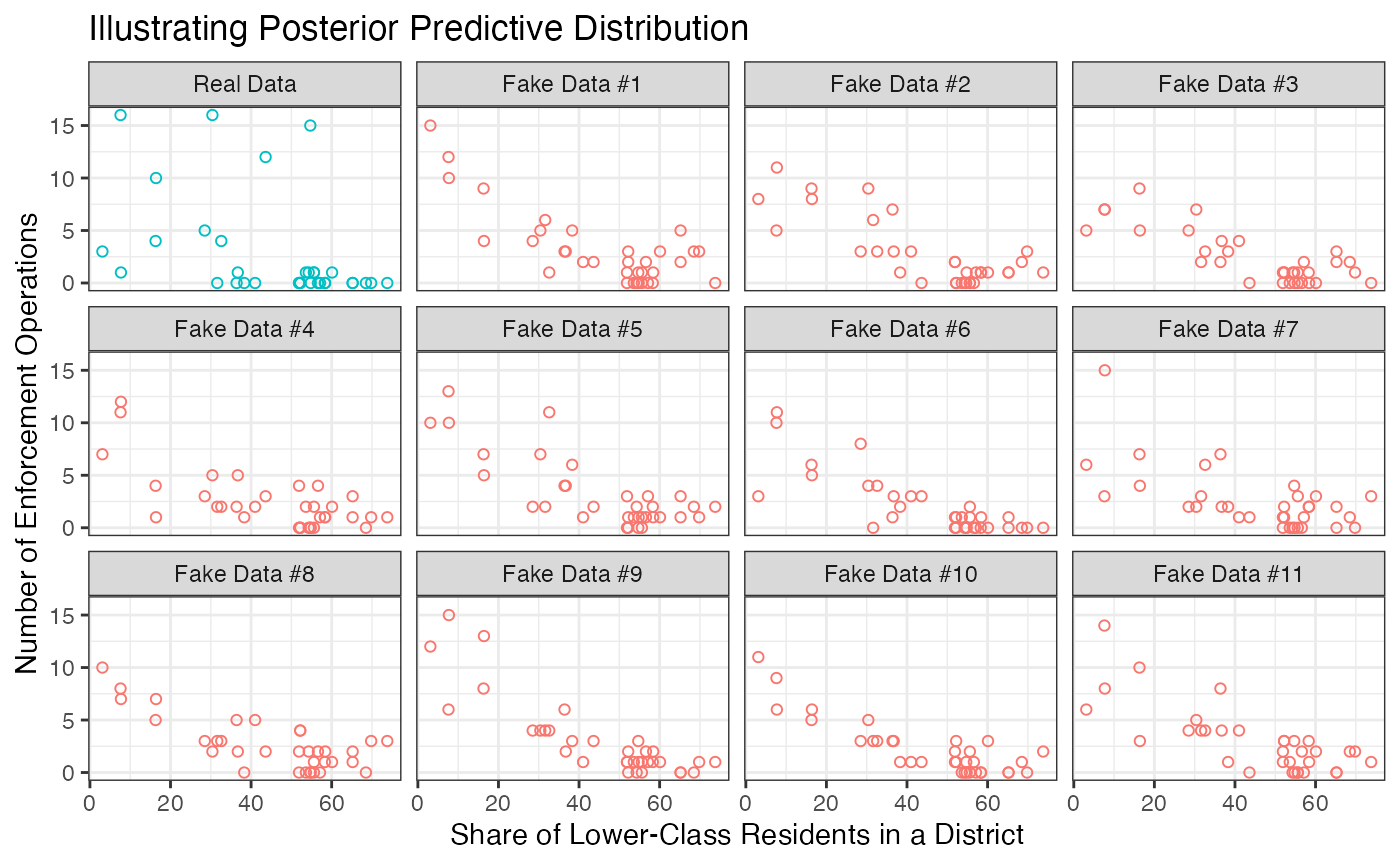
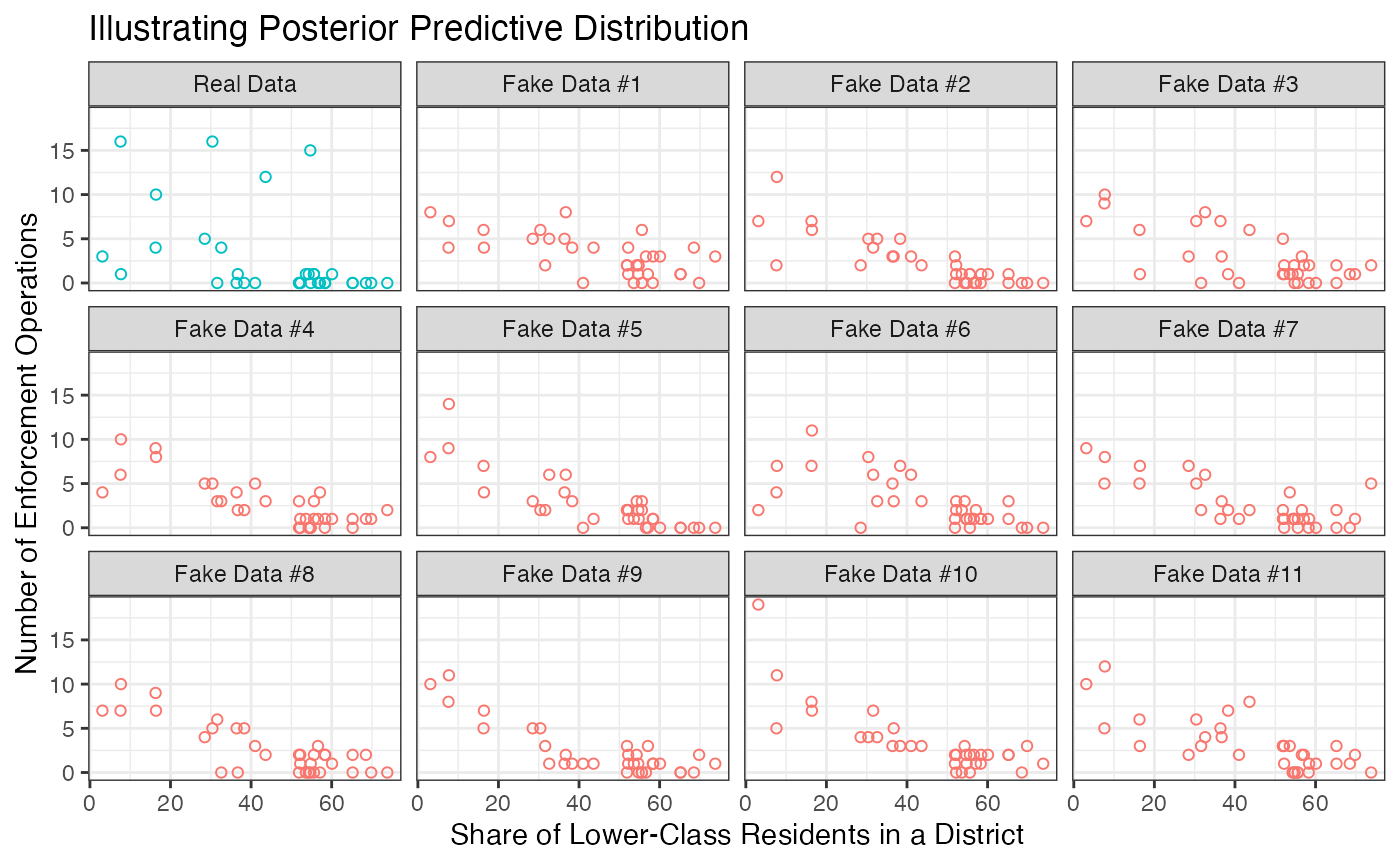
Fix references

diff --git a/docs/articles/holland2015.html b/docs/articles/holland2015.html
@@ -171,7 +171,7 @@ for</p>
 <span><span class="co">#&gt; $ .chain      <span style="color: #949494; font-style: italic;">&lt;int&gt;</span> NA, NA, NA, NA, NA, NA, NA, NA, NA, NA, NA, NA, NA, NA, NA…</span></span>
 <span><span class="co">#&gt; $ .iteration  <span style="color: #949494; font-style: italic;">&lt;int&gt;</span> NA, NA, NA, NA, NA, NA, NA, NA, NA, NA, NA, NA, NA, NA, NA…</span></span>
 <span><span class="co">#&gt; $ .draw       <span style="color: #949494; font-style: italic;">&lt;int&gt;</span> 1, 2, 3, 4, 5, 6, 7, 8, 9, 10, 11, 1, 2, 3, 4, 5, 6, 7, 8,…</span></span>
-<span><span class="co">#&gt; $ .prediction <span style="color: #949494; font-style: italic;">&lt;int&gt;</span> 2, 0, 1, 0, 1, 0, 1, 4, 0, 1, 3, 3, 3, 1, 1, 1, 0, 0, 3, 1…</span></span>
+<span><span class="co">#&gt; $ .prediction <span style="color: #949494; font-style: italic;">&lt;int&gt;</span> 4, 1, 2, 0, 2, 3, 0, 1, 1, 0, 1, 0, 0, 1, 1, 0, 0, 1, 0, 2…</span></span>
 <span></span>
 <span><span class="co"># wrangle fake data for plotting</span></span>
 <span><span class="va">gg_fake</span> <span class="op">&lt;-</span> <span class="va">fake</span> <span class="op"><a href="https://magrittr.tidyverse.org/reference/pipe.html" class="external-link">%&gt;%</a></span></span>
@@ -203,7 +203,7 @@ for</p>
 <span><span class="co">#&gt; $ .iteration <span style="color: #949494; font-style: italic;">&lt;int&gt;</span> NA, NA, NA, NA, NA, NA, NA, NA, NA, NA, NA, NA, NA, NA, NA,…</span></span>
 <span><span class="co">#&gt; $ .draw      <span style="color: #949494; font-style: italic;">&lt;dbl&gt;</span> 0, 1, 2, 3, 4, 5, 6, 7, 8, 9, 10, 11, 0, 1, 2, 3, 4, 5, 6, …</span></span>
 <span><span class="co">#&gt; $ type       <span style="color: #949494; font-style: italic;">&lt;chr&gt;</span> "operations", ".prediction", ".prediction", ".prediction", …</span></span>
-<span><span class="co">#&gt; $ operations <span style="color: #949494; font-style: italic;">&lt;dbl&gt;</span> 0, 2, 0, 1, 0, 1, 0, 1, 4, 0, 1, 3, 0, 3, 3, 1, 1, 1, 0, 0,…</span></span>
+<span><span class="co">#&gt; $ operations <span style="color: #949494; font-style: italic;">&lt;dbl&gt;</span> 0, 4, 1, 2, 0, 2, 3, 0, 1, 1, 0, 1, 0, 0, 0, 1, 1, 0, 0, 1,…</span></span>
 <span><span class="co">#&gt; $ obs_type   <span style="color: #949494; font-style: italic;">&lt;fct&gt;</span> Real Data, Fake Data #1, Fake Data #2, Fake Data #3, Fake D…</span></span>
 <span></span>
 <span><span class="co"># plot fake data</span></span>

diff --git a/docs/reference/holland2015.html b/docs/reference/holland2015.html
@@ -107,14 +107,9 @@ Poverty should have no relationship with enforcement in politically centralized 
 .</p>
 <p>Holland, Alisha. 2014. "Replication data for: The Distributive Politics of Enforcement." Harvard Dataverse, V2. <a href="https://doi.org/10.7910/DVN/24859" class="external-link">doi:10.7910/DVN/24859</a>
 .</p>
-<p>Pevehouse, Jon, and Bruce Russett.
-2006.
-"Democratic International Governmental Organizations Promote Peace."
-<em>International Organization</em> 60(4): 969-1000.
-<a href="https://doi.org/10.1017/S0020818306060322" class="external-link">doi:10.1017/S0020818306060322</a>
-.</p>
 <p>Rainey, Carlisle. 2023. "A Careful Consideration of CLARIFY: Simulation-Induced Bias in Point Estimates of Quantities of Interest."
-<em>Political Science Research and Methods</em>. Forthcoming. <em>10.1017/psrm.2023.8</em>.</p>
+<em>Political Science Research and Methods</em>. Forthcoming. <a href="https://doi.org/10.1017/psrm.2023.8" class="external-link">doi:10.1017/psrm.2023.8</a>
+.</p>
     </div>
 
     <div class="section level2">
